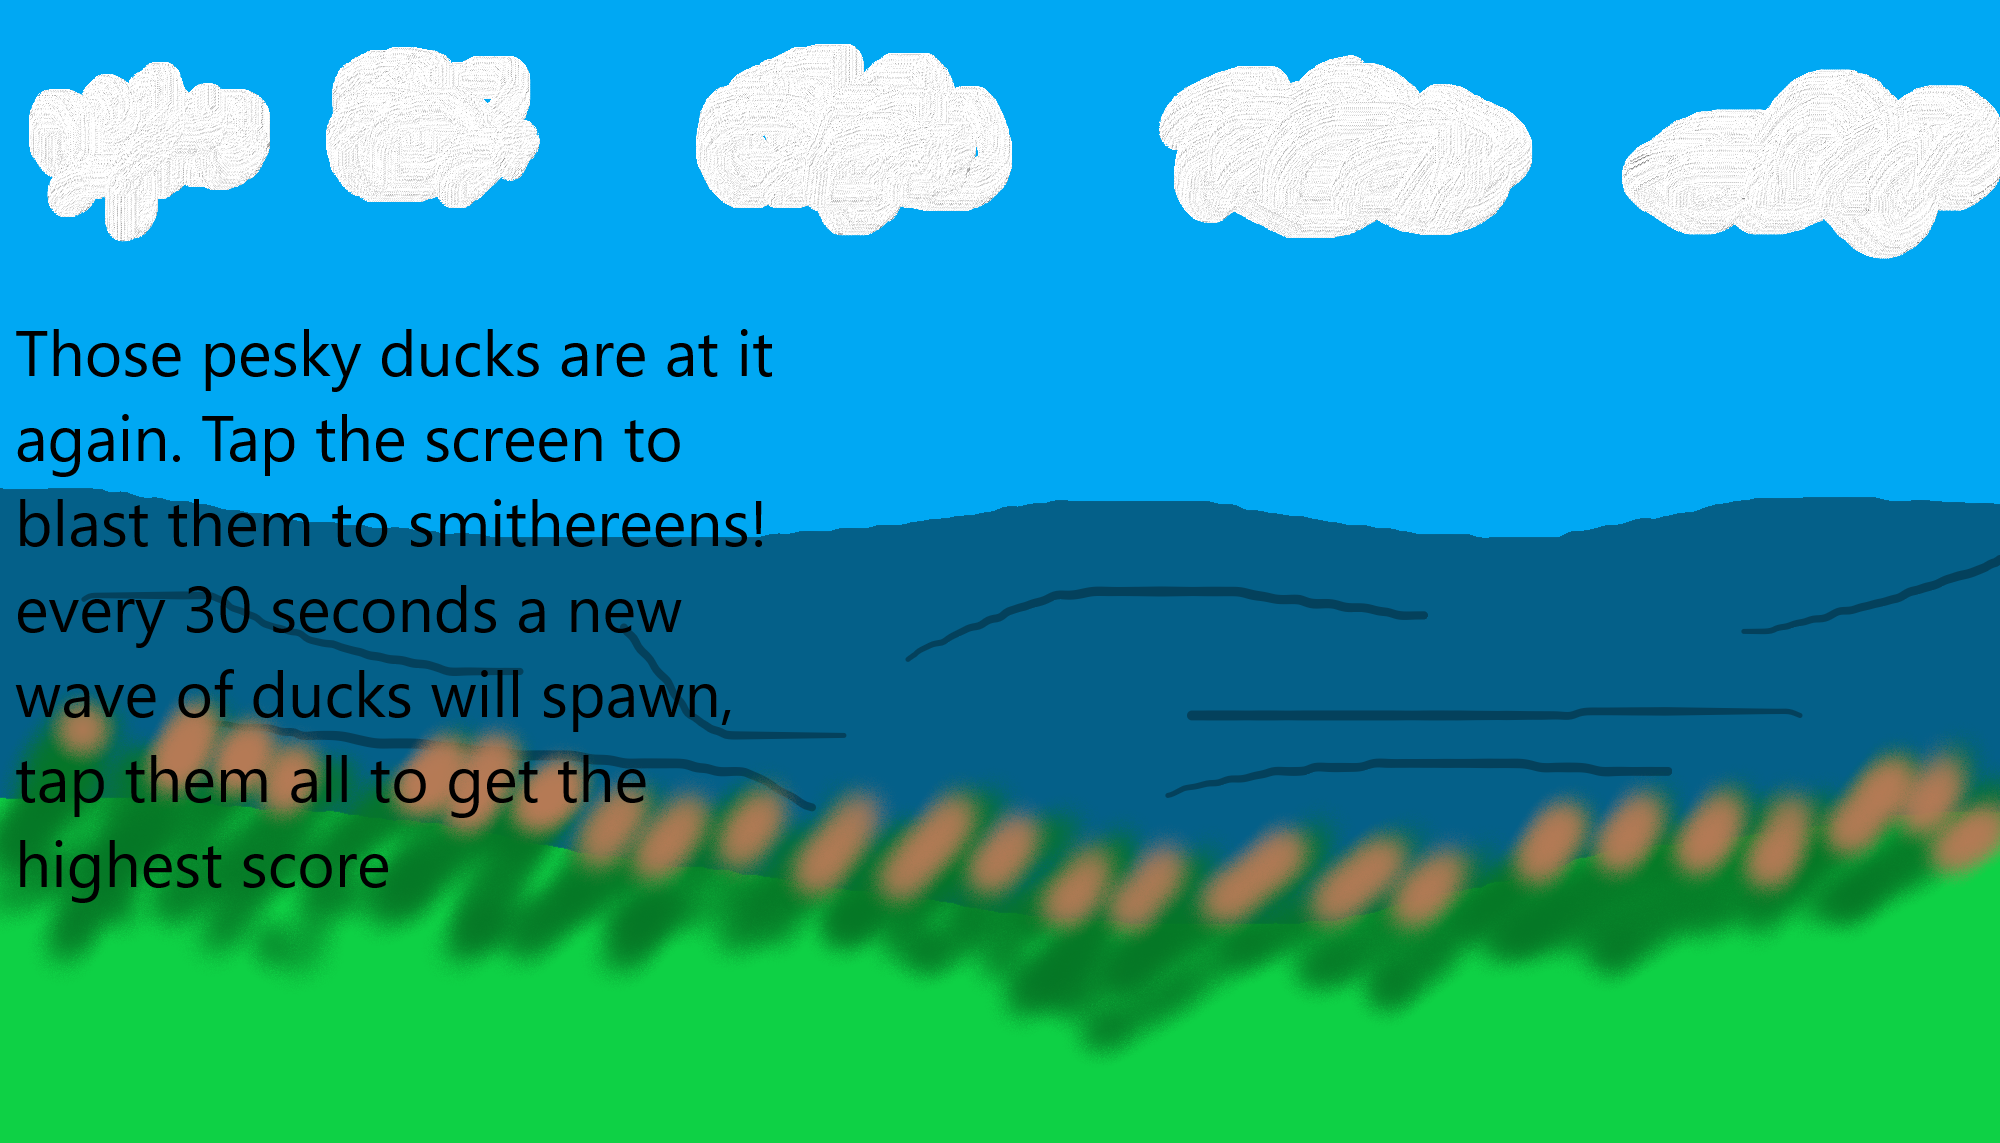
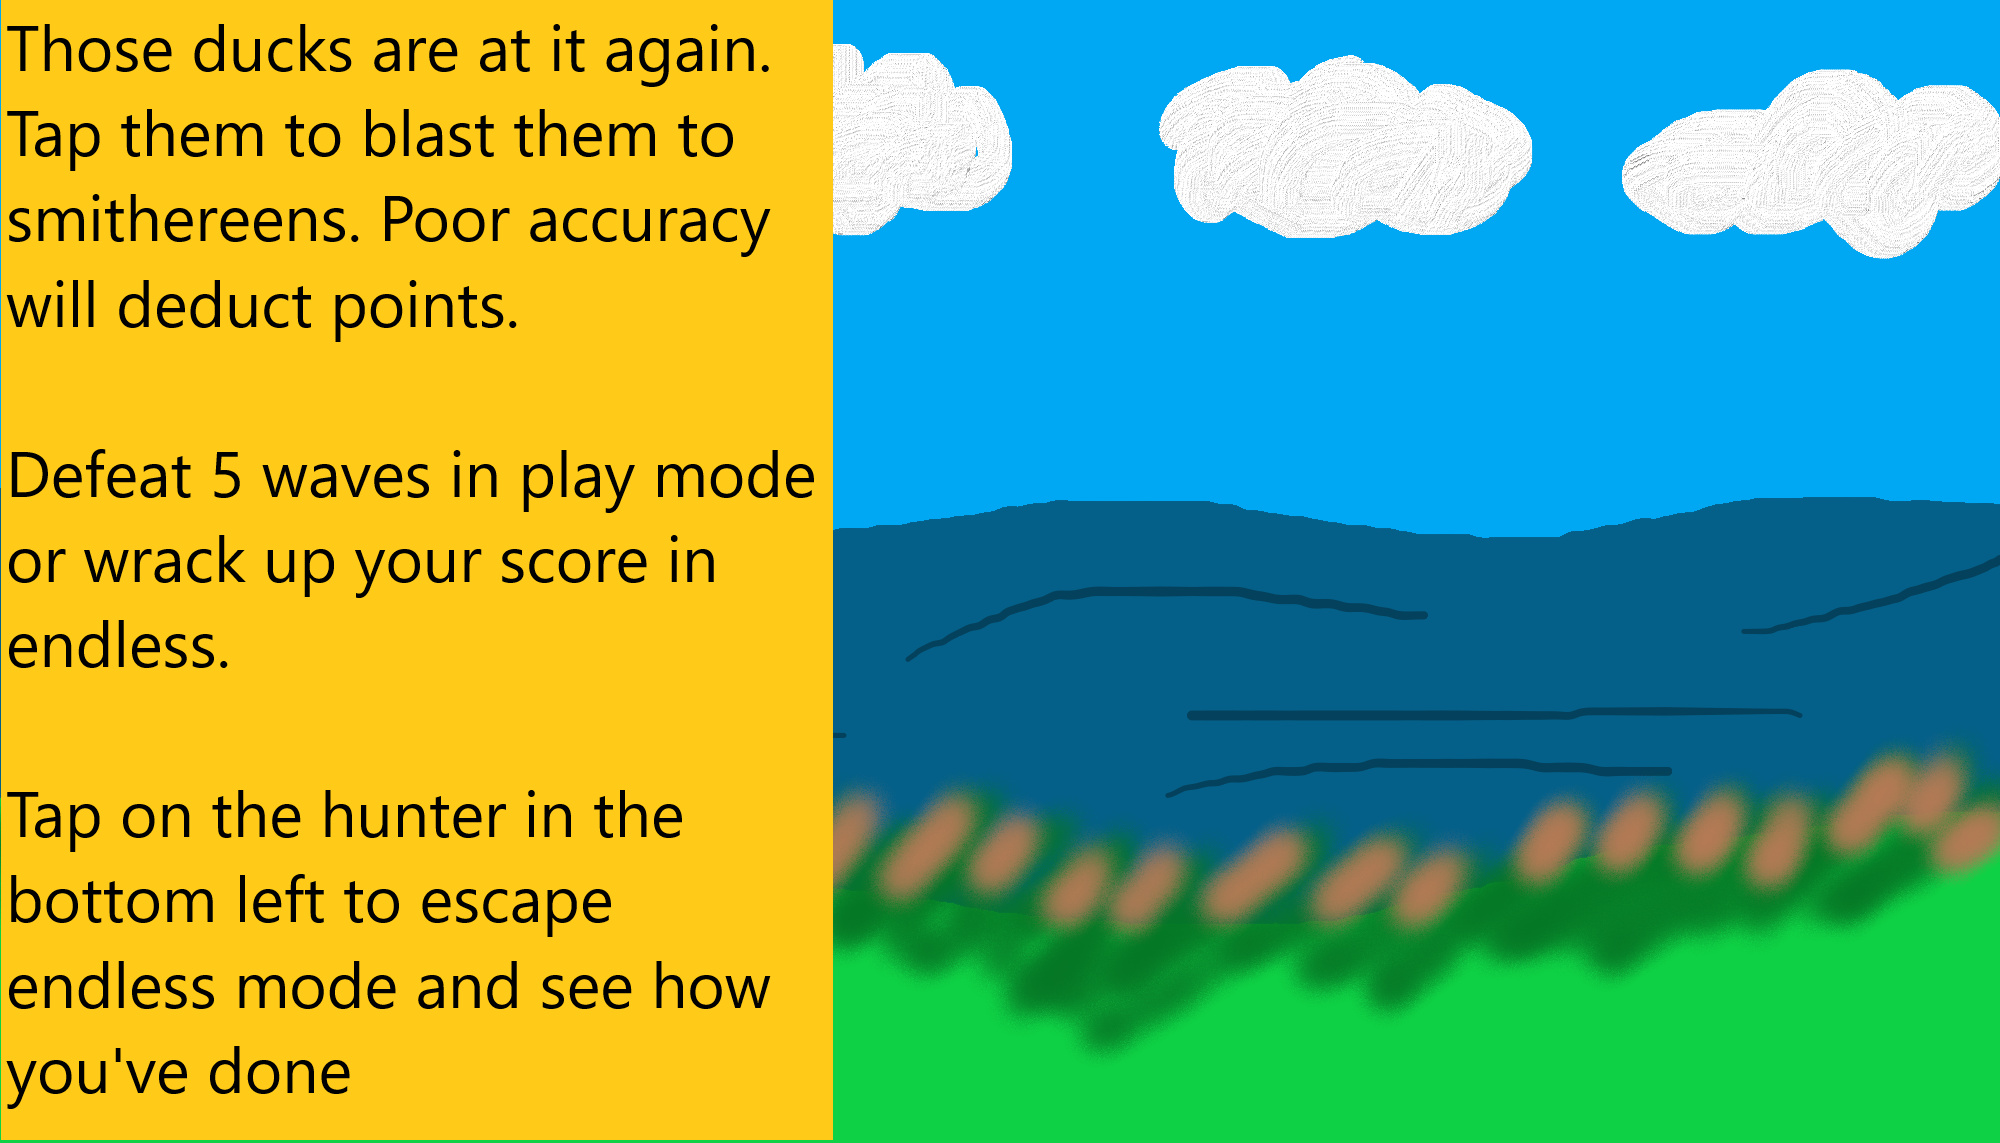
endless mode added new assets
endless mode has now been added, hunter asset added, old assets removed.
sounds added. debugging on sound.

diff --git a/DavidHeskethMGD1/app/src/main/assets/gameJS.js b/DavidHeskethMGD1/app/src/main/assets/gameJS.js
@@ -10,10 +10,13 @@ var spawnNumber;
 
 var scene1Image;
 var firstButton;
+var endlessButton;
 
-var sPumpkin;
+var endlessScene;
+var highEndless;
+
 var bkgdImage;
-var sJackSkellington;
+var sHunter;
 var sEnemy0;
 var sEnemy1;
 var sEnemy2;
@@ -31,6 +34,10 @@ var gameOverScreen = false;
 var highScore;
 var oldScore;
 var newHighScore;
+var newEndless;
+var displayScore;
+
+var setToSix;
 
 var lastPt = null;
 
@@ -51,7 +58,7 @@ var maxAmmo = 5;
 var startTimeMS;
 
 var enemies = new Array(5);
-var images = ["JackSkellington.png", "Oogie_Boogie76x64.png", "pumpkin.png"];
+
 
 var backgroundSound = new Audio();
 backgroundSound.src = "RoyaltyFreesoundeffectsWoodlandAmbient1.mp3";
@@ -60,6 +67,15 @@ backgroundSound.volume = 0.5;
 var shootSound = new Audio();
 shootSound.src = "Gun+Shot2.mp3";
 
+var quack = new Audio();
+quack.src = "Quack!.mp3"
+
+var emptySound = new Audio();
+emptySound.src = "Gun+Empty.mp3";
+
+var reloadSound = new Audio();
+reloadSound.src = "Gun+Reload.mp3";
+
 var spawnTime;
 var lastSpawn;
 //window.onload =
@@ -67,11 +83,7 @@ function load(){
     canvas = document.getElementById('gameCanvas');
     canvasContext = canvas.getContext('2d');
 
-    if (localStorage.getItem('high') == null)
-    {
-        localStorage.setItem('high', 0);
-    }
-
+    HighScoreCheck();
     init();
 
     canvasX = canvas.width/2;
@@ -102,10 +114,16 @@ aSprite.prototype.render = function(){
 aSprite.prototype.updatePos = function(){
 if (this.x > canvas.width || this.x < 0 || this.y > canvas.height || this.y < 0)
     {
-        this.x = canvas.width/2;
-        this.y = canvas.height/2;
-        this.image = randomImage();
+        this.x = GenRandom(canvas.width/5, (canvas.width/5)*4);
+        this.y = GenRandom(canvas.height/5, (canvas.height/5)*4);
+        this.vx = GenRandom(100, -100);
+        this.vy = GenRandom(100, -100);
     }
+}
+
+function GenRandom(max, min)
+{
+    return Math.random()*(max -  min) + min;
 }
 
 aSprite.prototype.update = function(deltaTime){
@@ -121,7 +139,6 @@ function init(){
     if(canvas.getContext){
 //Set Event Listeners for window, mouse and touch
 
-        randomImage();
         //styleText("black", 8 + "pt arial", "left", "top");
         window.addEventListener('resize', resizeCanvas, false);
         window.addEventListener('orientationchange', resizeCanvas, false);
@@ -135,17 +152,19 @@ function init(){
         resizeCanvas();
 
         scene1Image = new aSprite(0, 0, "scene1.png", 0, 0);
-        firstButton = new aSprite(canvas.width/2, canvas.height/2, "button.png", 0, 0);
+        firstButton = new aSprite(canvas.width/2, canvas.height/5, "button.png", 0, 0);
+        endlessButton = new aSprite(canvas.width/2, canvas.height/2, "endlessButton.png", 0, 0);
+
 
         rButton = new aSprite((canvas.width/5) *4, canvas.height/10, "rButton.png", 0, 0);
         bkgdImage = new aSprite(0, 0, "BkgdGY.png", 0, 0);
-        sJackSkellington = new aSprite(25,canvas.height - 140,"JackSkellington.png", 0, 0);
-        sEnemy0 = new aSprite(canvas.width,sJackSkellington.y, "duck.png", -50,-35);
+        sHunter = new aSprite(25,canvas.height - 140,"hunter.png", 0, 0);
+        sEnemy0 = new aSprite(canvas.width,sHunter.y, "duck.png", -50,-35);
         sEnemy1 =  new aSprite(canvas.width/2,canvas.height/2, "duck.png", 50,30);
         sEnemy2 =  new aSprite(canvas.width/2,canvas.height/2, "duck.png", -70,15);
         sEnemy3 =  new aSprite(canvas.width/2,canvas.height/2, "duck.png", -30,60);
         sEnemy4 =  new aSprite(canvas.width/2,canvas.height/2, "duck.png", -50,0);
-        sPumpkin = new aSprite(sJackSkellington.x+sJackSkellington.sImage.width/2,sJackSkellington.y+(sJackSkellington.sImage.height/2),"Pumpkin.png", 25, 0);
+
         enemies = [sEnemy0, sEnemy1, sEnemy2, sEnemy3, sEnemy4];
         startTimeMS = Date.now();
         lastSpawn = Date.now();
@@ -177,12 +196,13 @@ function gameLoop(){
 }
 
 function render(delta){
-    if (menuScreen == true)
+    if (menuScreen)
     {
         scene1Image.renderF(canvas.width,canvas.height);
         firstButton.render();
+        endlessButton.render();
     }
-    if (gameScreen == true)
+    if (gameScreen || endlessScene)
     {
         bkgdImage.renderF(canvas.width,canvas.height);
         styleText("black", 20 + "pt arial", "left", "top");
@@ -192,8 +212,8 @@ function render(delta){
         canvasContext.fillText("Wave timer: "+ (displayTimer) + " Wave Number: " + round, canvas.width/8, canvas.height/5);
         canvasContext.fillText("Score: "+ (score), canvas.width/4, canvas.height/8);
         canvasContext.fillText("Ammo: "+ (ammo), (canvas.width/6)*5, (canvas.height/6)*5);
-        sPumpkin.render();
-        sJackSkellington.render();
+
+        sHunter.render();
         if (particles.length > 0)
         {
             renderP(canvasContext);
@@ -210,33 +230,34 @@ function render(delta){
     {
          endingImage.renderF(canvas.width, canvas.height);
          replayButton.render();
-         if (newHighScore)
+         if (newHighScore && newEndless)
          {
-            canvasContext.fillText("Congrats! You got a new HighScore: "+ score + " You beat: " + oldScore, canvas.width/5, canvas.height/2);
+            canvasContext.fillText("Congrats! You got a new HighScore: "+ localStorage.getItem('high') + " You beat: " + oldScore, canvas.width/5, canvas.height/2);
          }
-         if (!newHighScore)
+         if (!newHighScore && newEndless)
          {
-            canvasContext.fillText("Congrats! You got: "+ score + " Your score to beat is: " + oldScore, canvas.width/5, canvas.height/2);
+            canvasContext.fillText("Congrats! You got: "+ displayScore + " Your score to beat is: " + oldScore, canvas.width/5, canvas.height/2);
+         }
+         if (newEndless)
+         {
+            canvasContext.fillText("Congrats! You got a new endless mode HighScore: "+ localStorage.getItem('endless') + " You beat: " + oldScore, canvas.width/5, canvas.height/2);
+         }
+         if (!newEndless)
+         {
+            canvasContext.fillText("Congrats! You got: "+ displayScore + " Your score to beat is: " + oldScore, canvas.width/5, canvas.height/2);
          }
     }
 }
 
-
-function randomImage()
-{
-
-    var imageReturn =  Math.floor((Math.random()*3));
-    console.log(images[imageReturn]);
-    return images[imageReturn];
-}
 
 function update(delta){
 
 if (menuScreen == true)
 {
     firstButton.update(delta);
+    endlessButton.update(delta);
 }
-    if (gameScreen == true)
+    if (gameScreen || endlessScene)
     {
         rButton.update(delta);
         if (gameTimer < 0)
@@ -247,7 +268,7 @@ if (menuScreen == true)
             enemies[3] = sEnemy3;
             enemies[4] = sEnemy4;
         }
-        sPumpkin.update(delta);
+
         for (var i = 0; i<enemies.length; i++){
             if (enemies[i] != null)
             {
@@ -262,19 +283,27 @@ if (menuScreen == true)
         if (gameTimer < 0)
         {
             round++;
+            setToSix = true;
             gameTimer =startTimer/round;
-            if (round == 6)
+            if (gameScreen)
             {
-                gameScreen = false;
-                gameOverScreen = true;
-                highScore = localStorage.getItem('high')
-                EndSceneSetup();
+                if (round == 6)
+                {
+                    EndSceneSetup();
+                    gameScreen = false;
+                    gameOverScreen = true;
+                    highScore = localStorage.getItem('high')
+                }
+            }
+            if (endlessScene)
+            {
+                if (startTimer/round < 6 && setToSix)
+                {
+                    gameTimer = 6
+                    setToSix = false;
+                }
             }
         }
-
-        var newVelX = Math.sqrt((sJackSkellington.x - spawnX)^2)
-        var newVelY = Math.sqrt((sJackSkellington.y - spawnY)^2)
-        spawnNumber++;
     }
     if (gameOverScreen)
     {
@@ -284,7 +313,7 @@ if (menuScreen == true)
 
 function collisionDetection()
 {
-    if (gameScreen == true)
+    if (gameScreen || endlessScene)
     {
         if (ammo > 0)
         {
@@ -298,6 +327,7 @@ function collisionDetection()
                     {
                         canvasContext.clearRect(enemies[i].x, enemies[i].y, enemies[i].sImage.width, enemies[i].sImage.height);
                         createParticleArray(enemies[i].x, enemies[i].y, canvasContext);
+                        quack.play();
                         enemies[i] = null;
                         score += 2;
                         enemyHit = true;
@@ -305,11 +335,23 @@ function collisionDetection()
                 }
             }
         }
+
         if (lastPt.x < rButton.x + rButton.sImage.width && lastPt.x > rButton.x &&
             lastPt.y > rButton.y && lastPt.y < rButton.y + rButton.sImage.height)
         {
             enemyHit = true;
             ammo = maxAmmo;
+            reloadSound.play();
+        }
+
+        if (lastPt.x < sHunter.x + sHunter.sImage.width && lastPt.x > sHunter.x &&
+            lastPt.y > sHunter.y && lastPt.y < sHunter.y + sHunter.sImage.height)
+        {
+            highEndless = localStorage.getItem('endless');
+            EndSceneSetup();
+            enemyHit = true;
+            endlessScene = false;
+            gameOverScreen = true;
         }
     }
 
@@ -327,6 +369,19 @@ function collisionDetection()
             gameTimer = startTimer;
             enemyHit = true;
         }
+        if (lastPt.x < endlessButton.x + endlessButton.sImage.width && lastPt.x > endlessButton.x &&
+            lastPt.y > endlessButton.y && lastPt.y < endlessButton.y + endlessButton.sImage.height)
+        {
+            menuScreen = false;
+            endlessScene = true;
+            console.log ("Clicked an enemy");
+            ammo = maxAmmo;
+            round = 1;
+            score = 0;
+            gameTimer = startTimer;
+            enemyHit = true;
+        }
+
     }
     if (gameOverScreen == true)
     {
@@ -364,7 +419,7 @@ function touchUp(evt){
 function touchDown(evt){
     evt.preventDefault();
     touchXY(evt);
-    if (gameScreen)
+    if (gameScreen || endlessScene)
         {
             if (ammo > 0)
             {
@@ -374,6 +429,7 @@ function touchDown(evt){
             if (ammo == 0)
             {
                 collisionDetection();
+                emptySound.play();
             }
         }
     if (menuScreen)
@@ -481,16 +537,49 @@ function renderP(theCanvasContext)
 
 function EndSceneSetup()
 {
-    if (highScore < score)
+    if (gameScreen)
+    {
+        if (highScore < score)
         {
             oldScore = highScore;
             console.log ("new high score: " + score + " old high score: " + highScore);
             localStorage.setItem('high', score)
             newHighScore = true;
+            newEndless = false;
         }
         else
         {
             oldScore = highScore;
+            displayScore = score;
             newHighScore = false;
+            newEndless = false;
         }
+    }
+    if (endlessScene)
+    {
+        if (highEndless < score)
+        {
+            oldScore = highEndless;
+            localStorage.setItem('endless', score);
+            newEndlessw = true;
+        }
+        else
+        {
+            oldScore = highEndless;
+            displayScore = score;
+            newEndless = false;
+        }
+    }
+}
+
+function HighScoreCheck()
+{
+    if (localStorage.getItem('high') == null)
+    {
+        localStorage.setItem('high', 0);
+    }
+    if (localStorage.getItem('endless') == null)
+    {
+        localStorage.setItem('endless', 0);
+    }
 }
